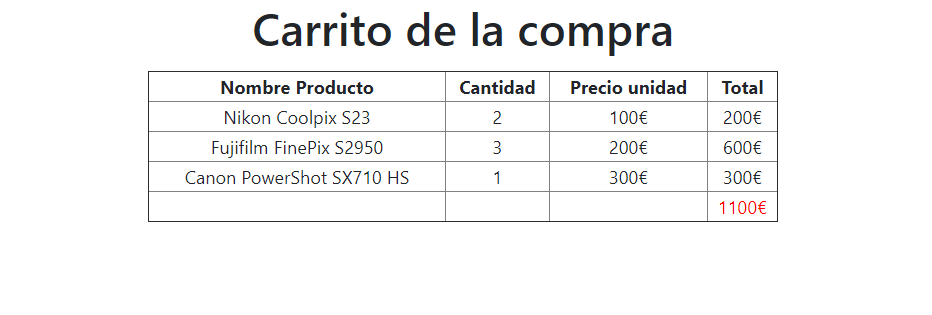
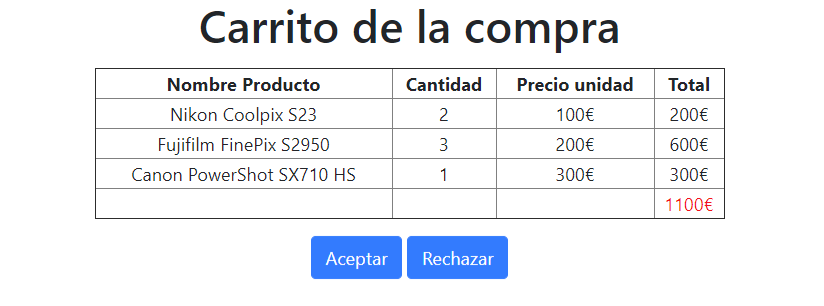
minor changes

diff --git a/compra.php b/compra.php
@@ -54,13 +54,13 @@ $suma_total = 0;
                 echo $filas['cantidad'];
                 echo '</td>';
                 echo '<td>';
-                echo $filas['precio']. "&euro;";
+                echo $filas['precio'] . "&euro;";
                 echo '</td>';
                 echo '<td>';
-                echo $total = $filas['precio'] * $filas['cantidad']. "&euro;";
+                echo $total = $filas['precio'] * $filas['cantidad'] . "&euro;";
                 echo '</td>';
                 echo '</tr>';
-                                                
+                
                 $suma_total += $total;
             }
         }
@@ -85,6 +85,9 @@ $suma_total = 0;
     
     ?>
 					</table>
+					
+					 <input class="btn btn-primary boton-agregar" type="submit" value="Aceptar" form="cesta-compra">
+					 <input class="btn btn-primary boton-agregar" type="submit" value="Rechazar" form="cesta-compra">
 
 			</div>
 		</div>
